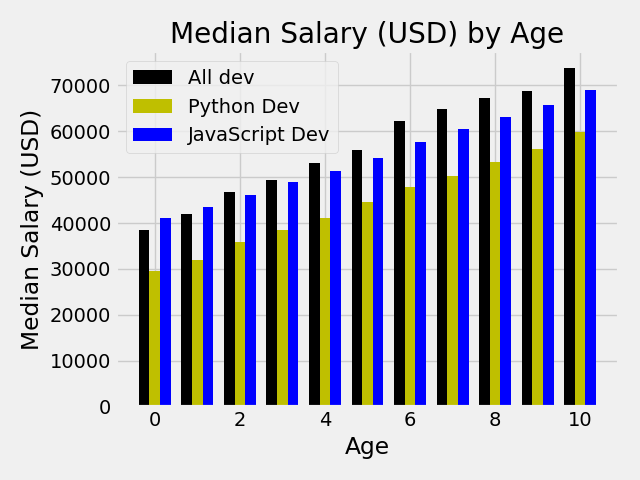
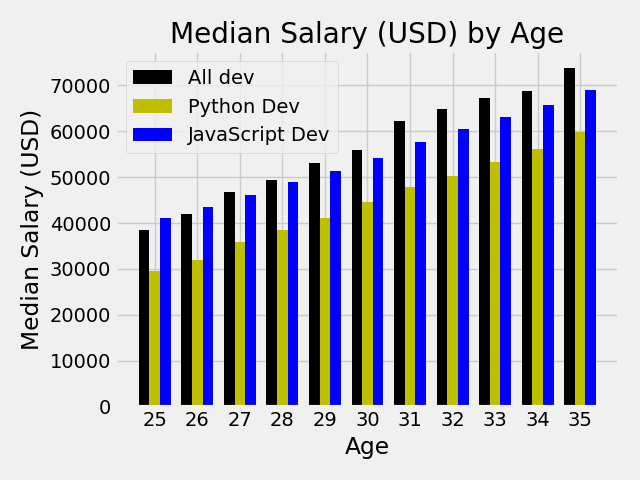
correct way to make chart bar for multiple values

diff --git a/Chart and CVS/tick.py b/Chart and CVS/tick.py
@@ -13,7 +13,7 @@ js_dev_y = [41000, 43500, 46200, 48900, 51400, 54200, 57600, 60500, 63200, 65800
 plt.bar(x_indexes + width, js_dev_y, width = width, color="b", label="JavaScript Dev")
 
 plt.legend()
-
+plt.xticks(ticks=x_indexes, labels=ages_x)
 plt.title("Median Salary (USD) by Age")
 plt.xlabel("Age")
 plt.ylabel("Median Salary (USD)")
